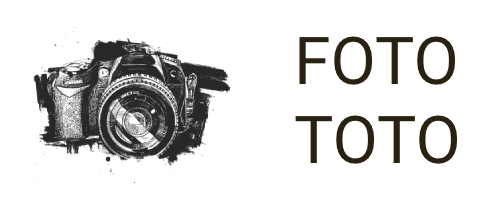
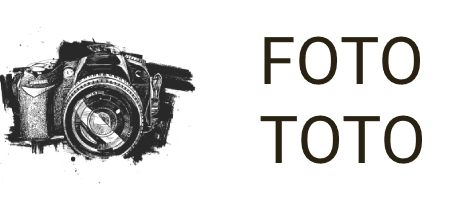
photo gallery oscillation

Changed region(s): [[0.0, 0.18, 0.4817, 0.84], [0.5419, 0.57, 0.9333, 0.84], [0.5419, 0.18, 0.9333, 0.45]]

diff --git a/style.css b/style.css
@@ -6,7 +6,7 @@
 
 body {
   font-family: 'Roboto', sans-serif;
-  width: 100vw;
+  width: 100%;
 }
 
 a {
@@ -15,11 +15,7 @@ a {
 
 .nav__item {
   list-style: none;
-  display:inline;
-}
-
-h1 {
-  font-size: 70px;
+  display: inline;
 }
 
 .header {
@@ -49,33 +45,8 @@ h1 {
   display: flex;
 }
 
-.container {
-  margin: 150px auto;
-  background-color:aquamarine;
-  width: 100%;
-  display: flex;
-  justify-content: center;
-}
-
-.container__main {
-  background-color: aqua;
-  display: flex;
-  justify-content: space-between;
-  align-items: center;
-  width: 80%;
-  gap: 2%;
-}
-
-.container__img {
-  width: 48%;
-}
-
-.container__slogan {
-  font-size: 6rem;
-}
-
 .header__img {
-  width: 300px;
+  width: 200px;
 }
 
 .nav__link {
@@ -95,11 +66,81 @@ h1 {
   transition-duration: 0.5s;
 }
 
+.container {
+  /* background-color: aquamarine; */
+  width: 100%;
+  min-height: 100vh;
+  padding: 110px 0;
+  display: flex;
+  justify-content: center;
+}
+
+.container__main {
+  /* background-color: aqua; */
+  display: flex;
+  justify-content: space-between;
+  /* align-items: center; */
+  flex-wrap: wrap;
+  width: 80%;
+  gap: 2%;
+}
+
+.container__img {
+  width: 49%;
+  border-radius: 10px;
+  object-fit: cover;
+}
+
+.container__slogan {
+  font-size: 5.8vw;
+  text-align: end;
+  font-style: italic;
+  line-height: 1.3em;
+  align-self: center;
+}
+
+.container__slogan b {
+  font-style: normal;
+  font-weight: 900;
+}
+
+.container__slogan b:last-child {
+  text-decoration: underline;
+  background-image: linear-gradient(to left top, #bb88eb, #c185e5, #c681de, #cb7ed8, #cf7bd1, #e07ac3, #ed7bb5, #f57ea7, #fe8c92, #fc9f84, #f4b27f, #e7c586);
+  -webkit-background-clip: text;
+  background-clip: text;
+  color: transparent;
+  letter-spacing: 0;
+}
+
 .examples {
-  background-color: pink;
+  min-height: 100vh;
+  /* background-color: pink; */
+  display: flex;
+  justify-content: center;
+  padding-top: 110px;
+}
+
+.examples__galery {
+  width: 80%;
+  /* background-color: cadetblue; */
+  display: grid;
+  grid-template-columns: repeat(auto-fit, minmax(250px, 1fr));
+  gap: 20px;
+  padding-bottom: 30px;
+}
+
+.examples__img {
+  /* background-color: blueviolet; */
+  border-radius: 10px;
+  object-fit: cover;
+  width: 100%;
+  height: 100%;
+  object-position: center;
 }
 
 .pricing {
+  min-height: 100vh;
   background-color: gold;
   display: flex;
   justify-content: center;
@@ -134,7 +175,7 @@ h1 {
   font-size: 3rem;
   font-weight: 900;
   margin: 1rem 0;
-  padding: 1rem 0; 
+  padding: 1rem 0;
 }
 
 .pricing__name {
@@ -144,7 +185,7 @@ h1 {
 }
 
 .pricing__con {
-  list-style-type: "- ";
+  list-style: none;
 }
 
 .pricing__term {
